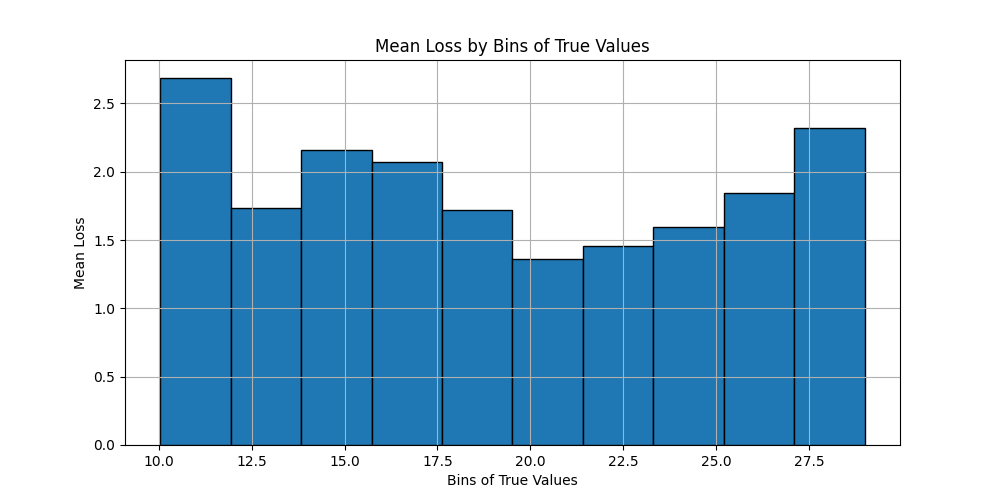
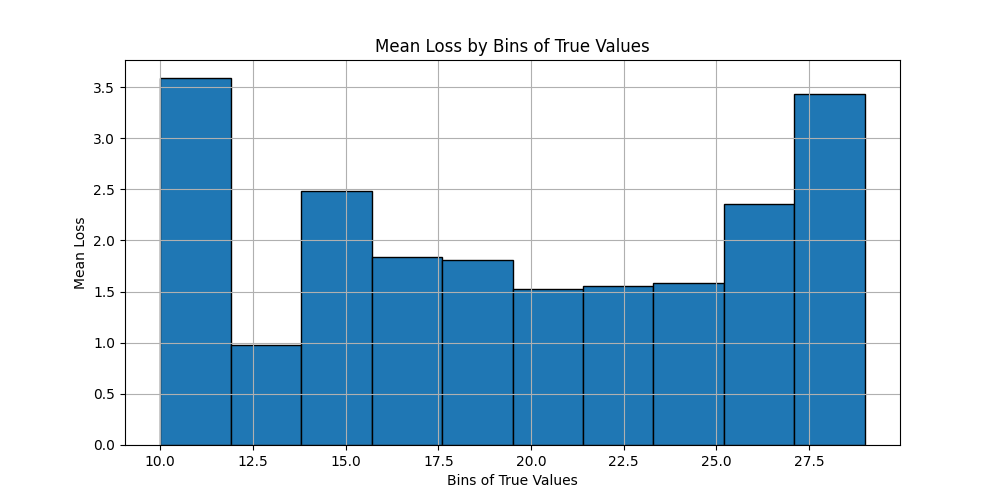
adding top10 worst pred for model debugging

diff --git a/gnn.py b/gnn.py
@@ -1,3 +1,4 @@
+import json 
 import mlflow
 import networkx as nx
 from scipy.sparse import csr_matrix
@@ -20,6 +21,8 @@ from torch_geometric.nn import GCNConv, GATConv, global_mean_pool
 from torch_geometric.data import Data
 from torch_geometric.loader import DataLoader
 from models import *
+import logging
+logging.basicConfig(level=logging.INFO)
 
 class MtrxType(Enum):
     ADJACENCY_MATRIX = 0
@@ -373,6 +376,15 @@ def run_training_and_evaluation(conv_types, k_values, train_loader, test_loader,
                 total_val_loss += loss.item() * batch.num_graphs
                 true_values.extend(batch.y.tolist())
                 predicted_values.extend(out.tolist())
+                batch_uuids = batch.uuid
+
+                for actual, predicted, uuid in zip(batch.y.tolist(), out.tolist(), batch_uuids):
+                    prediction_details.append({
+                        'uuid': uuid,
+                        'actual': actual,
+                        'predicted': predicted,
+                        'loss': abs(actual - predicted)
+                    })
         avg_val_loss = total_val_loss / len(test_loader.dataset)
         val_loss_list.append(avg_val_loss)
 
@@ -401,7 +413,7 @@ def run_training_and_evaluation(conv_types, k_values, train_loader, test_loader,
     plt.grid(True)
     plt.savefig("mean_loss_by_bins.png")
     plt.close('all')
- 
+    
     if mlflow_run: 
         mlflow.log_param("lr", lr)
         mlflow.log_param("dropout_rate1", dropout_rate1)
@@ -415,9 +427,22 @@ def run_training_and_evaluation(conv_types, k_values, train_loader, test_loader,
         mlflow.log_artifact("mean_loss_by_bins.png")
         mlflow.log_artifact("true_vs_pred.png")
         top_10_worst_predictions = sorted(prediction_details, key=lambda x: x['loss'], reverse=True)[:10]
+
+        # Load climb names
+        df_climbs = pd.read_csv('data/csvs/climbs.csv')
+
+        # Add climb names to the predictions
         for pred in top_10_worst_predictions:
-            print(f"{pred['name']}, Actual: {pred['actual']}, Predicted: {pred['predicted']}, Loss: {pred['loss']}")
-        mlflow.log_metric("top_10_worst_predictions", top_10_worst_predictions)
+            climb_name = df_climbs[df_climbs['uuid'] == pred['uuid']]['name'].values[0]
+            pred['climb_name'] = climb_name
+            logging.info(f"{climb_name}, Actual: {pred['actual']}, Predicted: {pred['predicted']}, Loss: {pred['loss']}")
+
+        # Write to a JSON file
+        with open("top_10_worst_predictions.json", "w") as file:
+            json.dump(top_10_worst_predictions, file, indent=4)
+
+        # Log the JSON file with MLflow
+        mlflow.log_artifact("top_10_worst_predictions.json")
 
 
 
@@ -430,12 +455,13 @@ if __name__ == "__main__":
     mlflow.set_experiment("Tuned Model")
     fold_data_lists = data_loading()
     fold_val_losses = []
-    hidden_dim1 = 128
-    hidden_dim2 = 128
-    hidden_dim3 = 512
-    lr = 0.00016
-    dropout_rate1 = dropout_rate2 = 0.4
-    weight_decay = 0.00087
+    hidden_dim1 = 256
+    hidden_dim2 = 512   
+    hidden_dim3 = 256
+    lr = 0.0004761947456361084
+    dropout_rate1 = 0.4749033543430395
+    dropout_rate2 = 0.3987789183651262
+    weight_decay = 1.8746053259016402e-05
     conv_types = [ChebConv, ChebConv, TransformerConv]
     k_values = [2, 2, 2]
     train_loader = DataLoader(train_data, batch_size=32, shuffle=True)
@@ -444,6 +470,6 @@ if __name__ == "__main__":
     best_val_loss = run_training_and_evaluation(
         conv_types, k_values, train_loader, test_loader,
         hidden_dim1, hidden_dim2, hidden_dim3,
-        lr, dropout_rate1, dropout_rate2, weight_decay, num_epochs=10, mlflow_run=True)
+        lr, dropout_rate1, dropout_rate2, weight_decay, num_epochs=100, mlflow_run=True)
     mlflow.log_metric("avg_val_loss", best_val_loss)
 

diff --git a/hyp_tune.py b/hyp_tune.py
@@ -51,6 +51,12 @@ def objective(trial):
             hidden_dim1, hidden_dim2, hidden_dim3,
             lr, dropout_rate1, dropout_rate2, weight_decay, num_epochs)
         fold_val_losses.append(best_val_loss)
+        # continue with the next parameters if the val loss is very high
+        logging.info(f"Val loss: {best_val_loss}")
+        if best_val_loss > 1.55:
+            logging.info("Val loss too high, skipping to next parameters")
+            continue
+    
     return sum(fold_val_losses) / len(fold_val_losses)
 
 if __name__ == "__main__":
